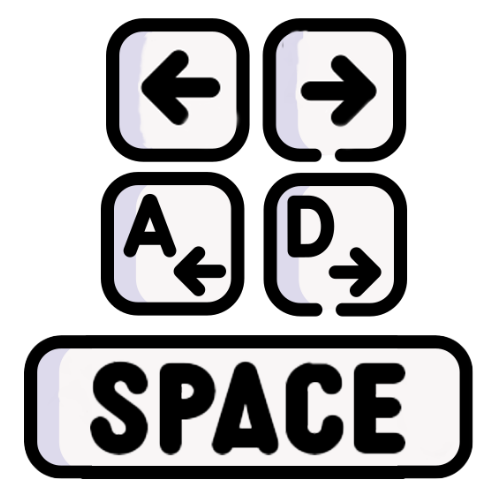
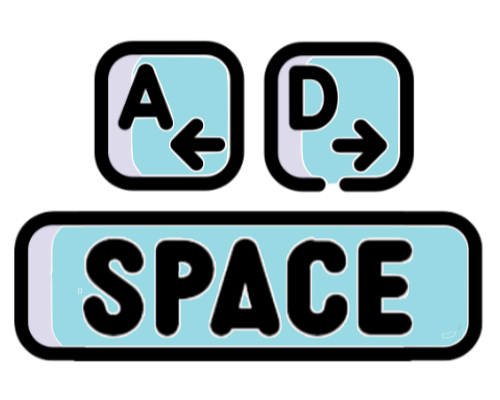
Start Page and main page Beautifulized

diff --git a/StartPage.py b/StartPage.py
@@ -5,37 +5,49 @@ import pygame
 
 class StartScreen:
     def __init__(self, ba_game):
+        pygame.font.init()
+
         self.screen = ba_game.screen
         self.screen_rect = ba_game.screen.get_rect()
         self.settings = ba_game.settings
         self.stats = ba_game.stats
 
+        # Background
+        self.Back_ground = pygame.image.load(os.path.join("Assets/images/", "background.png"))
+        self.Back_ground = pygame.transform.scale(self.Back_ground,
+                                                  (self.settings.screen_width, self.settings.screen_height))
+
         # Fonts
-        pygame.font.init()
-        self.Big_font = pygame.font.SysFont("comicsans", 50)
-        self.Small_font = pygame.font.SysFont("comicsans", 30)
+        self.Big_font = pygame.font.Font(os.path.join("Assets/MaldiniBold.ttf"), 50)
+        self.Small_font = pygame.font.Font(os.path.join("Assets/MaldiniStyle.ttf"), 50)
+
+        # Logos
+        self.logo = pygame.image.load(os.path.join("Assets/images/", "logo.png"))
+        self.logo = pygame.transform.scale(self.logo, (400, 200))
 
         # Load Keyboard img
         self.keyboard_image = pygame.image.load(os.path.join("Assets/images/", "buttons.png"))
-        self.keyboard_image = pygame.transform.scale(self.keyboard_image, (200, 200))
+        self.keyboard_image = pygame.transform.scale(self.keyboard_image, (200, 160))
 
         # Creat play button Rect
-        self.play_btn = pygame.Rect(self.settings.screen_width // 2 - 50, self.settings.screen_height - 100, 120, 80)
+        self.play_btn = pygame.image.load(os.path.join("Assets/images/", "start.png"))
+        self.play_btn = pygame.transform.scale(self.play_btn, (200, 80))
+        self.play_rect = self.play_btn.get_rect()
+        self.play_rect.center = (self.settings.screen_width // 2, self.settings.screen_height - 100)
 
     def blitme(self):
-        self.screen.fill(self.settings.dark_Beige_color)
-        self.write_text("Be Alien!", "big", self.settings.blue_color, (self.settings.screen_width // 2 - 100, 40))
+        self.screen.blit(self.Back_ground, (0, 0))
+        self.screen.blit(self.logo, (self.settings.screen_width // 2 - 200, 20))
 
-        self.write_text("Movements:", "small", self.settings.blue_color, (self.settings.screen_width // 2 - 200, 200))
-        self.screen.blit(self.keyboard_image, (self.settings.screen_width // 2 + 10, 150))
-
-        self.write_text("High Score:", "small", self.settings.blue_color, (self.settings.screen_width // 2 - 200, 400))
+        self.write_text("High Score", "small", self.settings.blue_color, (self.settings.screen_width // 2 - 100, 210))
         self.write_text(f"{self.stats.high_score}", "small", self.settings.blue_color,
-                        (self.settings.screen_width // 2 + 100, 400))
+                        (self.settings.screen_width // 2 - 20, 260))
 
-        pygame.draw.rect(self.screen, self.settings.dark_Beige_color, self.play_btn)
-        self.write_text("Play!", "big", self.settings.blue_color,
-                        (self.settings.screen_width // 2 - 40, self.settings.screen_height - 100))
+        self.write_text("Guid for Noobs", "small", self.settings.blue_color,
+                        (self.settings.screen_width // 2 - 150, 330))
+        self.screen.blit(self.keyboard_image, (self.settings.screen_width // 2 - 100, 380))
+
+        self.screen.blit(self.play_btn, self.play_rect)
 
     def write_text(self, text, font_weight, color, location=(0, 0)):
         draw_text = ""

diff --git a/main.py b/main.py
@@ -1,3 +1,4 @@
+import os.path
 import sys
 from time import sleep
 
@@ -22,10 +23,14 @@ class BeAlien:
         pygame.init()
         self.settings = Settings()
 
-        pygame.display.set_caption("Be Alien :D")
+        pygame.display.set_caption("Destroy Human Kind")
         self.screen = pygame.display.set_mode(
             (self.settings.screen_width, self.settings.screen_height)
         )
+
+        self.back_ground = pygame.image.load(os.path.join("Assets/images/", "background.png"))
+        self.back_ground = pygame.transform.scale(self.back_ground,
+                                                  (self.settings.screen_width, self.settings.screen_height))
 
         self.Earth = Earth(self)
         self.Earth_center = EarthCenter(self)
@@ -77,7 +82,7 @@ class BeAlien:
 
     def _check_play_btn(self, mouse_pos):
         """Start a new game when the player clicks Play."""
-        button_clicked = self.startpage.play_btn.collidepoint(mouse_pos)
+        button_clicked = self.startpage.play_rect.collidepoint(mouse_pos)
         if button_clicked and not self.stats.game_active:
             # Reset the game settings.
             self.stats.game_active = True
@@ -97,9 +102,9 @@ class BeAlien:
 
     def _check_keydown_events(self, event):
         """Respond to keypresses."""
-        if event.key == pygame.K_RIGHT:
+        if event.key == pygame.K_RIGHT or event.key == pygame.K_d:
             self.AlienShip.clockwise_rotating = True
-        elif event.key == pygame.K_LEFT:
+        elif event.key == pygame.K_LEFT or event.key == pygame.K_a:
             self.AlienShip.anti_clockwise_rotating = True
         elif event.key == pygame.K_q:
             sys.exit()
@@ -108,9 +113,9 @@ class BeAlien:
 
     def _check_keyup_events(self, event):
         """Respond to key releases."""
-        if event.key == pygame.K_RIGHT:
+        if event.key == pygame.K_RIGHT or event.key == pygame.K_d:
             self.AlienShip.clockwise_rotating = False
-        elif event.key == pygame.K_LEFT:
+        elif event.key == pygame.K_LEFT or event.key == pygame.K_a:
             self.AlienShip.anti_clockwise_rotating = False
 
     def _fire_bullet(self):
@@ -190,8 +195,7 @@ class BeAlien:
 
     def _update_screen(self):
         """Update images on the screen, and flip to the new screen."""
-        self.screen.fill(self.settings.light_Beige_color)
-        self.AlienShip.blitme()
+        self.screen.blit(self.back_ground, (0, 0))
 
         # Drawing Bullets
         for bullet in self.bullets.sprites():
@@ -201,7 +205,8 @@ class BeAlien:
         # Draw the score information.
         self.sb.show_score()
 
-        # Drawing meteors Earth & Human
+        # Drawing AlienShip,meteors ,Earth & Human
+        self.AlienShip.blitme()
         self.meteors.draw(self.screen)
         self.Earth.blitme()
         self.Human.blitme()

diff --git a/score_board.py b/score_board.py
@@ -1,3 +1,5 @@
+import os
+
 import pygame.font
 
 
@@ -20,7 +22,7 @@ class Scoreboard:
 
         # Font settings for scoring information.
         self.text_color = (30, 30, 30)
-        self.font = pygame.font.Font("./Assets/glitched.otf", 48)
+        self.font = pygame.font.Font(os.path.join("Assets/MaldiniBold.ttf"), 40)
 
         # Prepare the initial score image.
         self.prep_score()
@@ -28,26 +30,25 @@ class Scoreboard:
     def prep_score(self):
         """Turn the score into a rendered image."""
         score_str = f"Scored {str(self.stats.score)}"
-        self.score_image = self.font.render(score_str, True, self.settings.blue_color, self.settings.light_Beige_color)
+        self.score_image = self.font.render(score_str, True, self.settings.blue_color)
         # Display the score at the top right of the screen.
         self.score_rect = self.score_image.get_rect()
-        self.score_rect.right = self.screen_rect.right - 20
-        self.score_rect.top = 20
+        self.score_rect.right = self.screen_rect.right - 30
+        self.score_rect.top = 30
 
         missed_str = f"Missed {str(self.stats.missed)}"
-        self.missed_image = self.font.render(missed_str, True, self.settings.blue_color,
-                                             self.settings.light_Beige_color)
+        self.missed_image = self.font.render(missed_str, True, self.settings.blue_color,)
         # Display the score at the bottom of the score string.
         self.missed_rect = self.missed_image.get_rect()
-        self.missed_rect.right = self.screen_rect.right - 20
-        self.missed_rect.top = 60
+        self.missed_rect.right = self.screen_rect.right - 30
+        self.missed_rect.top = 70
 
         high_score = f"high Score {str(self.stats.high_score)}"
-        self.high_image = self.font.render(high_score, True, self.settings.blue_color, self.settings.light_Beige_color)
+        self.high_image = self.font.render(high_score, True, self.settings.blue_color)
         # Display the score at the top left of the score string.
         self.high_rect = self.high_image.get_rect()
-        self.high_rect.left = self.screen_rect.left + 20
-        self.high_rect.top = 20
+        self.high_rect.left = self.screen_rect.left + 30
+        self.high_rect.top = 30
 
     def show_score(self):
         """Draw score to the screen."""

diff --git a/settings.py b/settings.py
@@ -35,6 +35,6 @@ class Settings:
         self.Meteor_Speed = 0.1
 
         # colors
-        self.light_Beige_color = (251, 248, 241)
+        self.light_Beige_color = (206, 192, 171)
         self.dark_Beige_color = (233, 218, 193)
         self.blue_color = (84, 186, 185)
